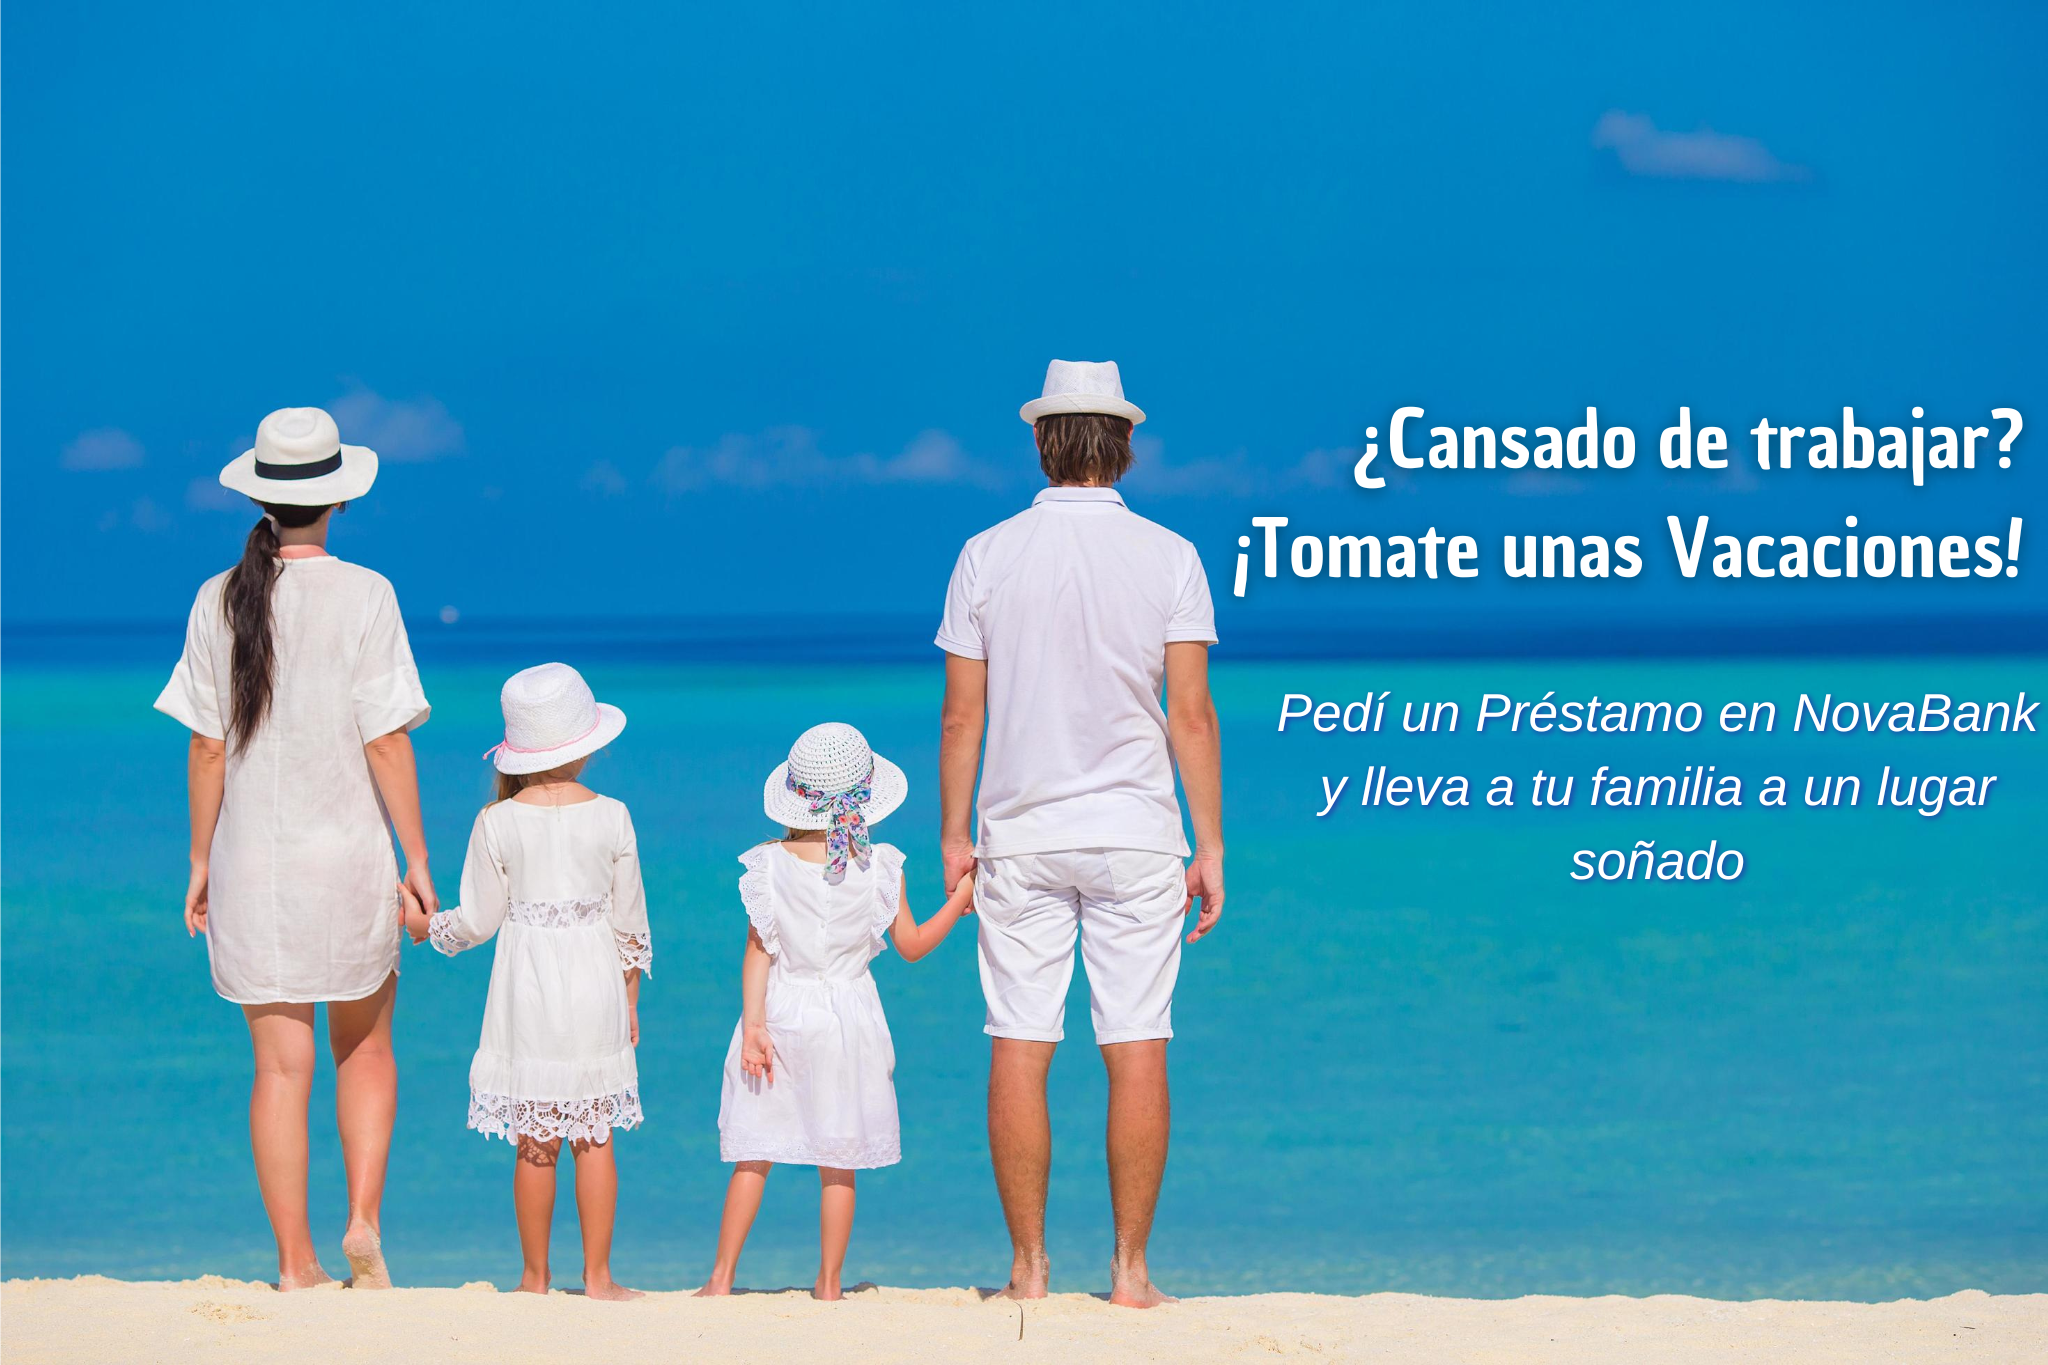
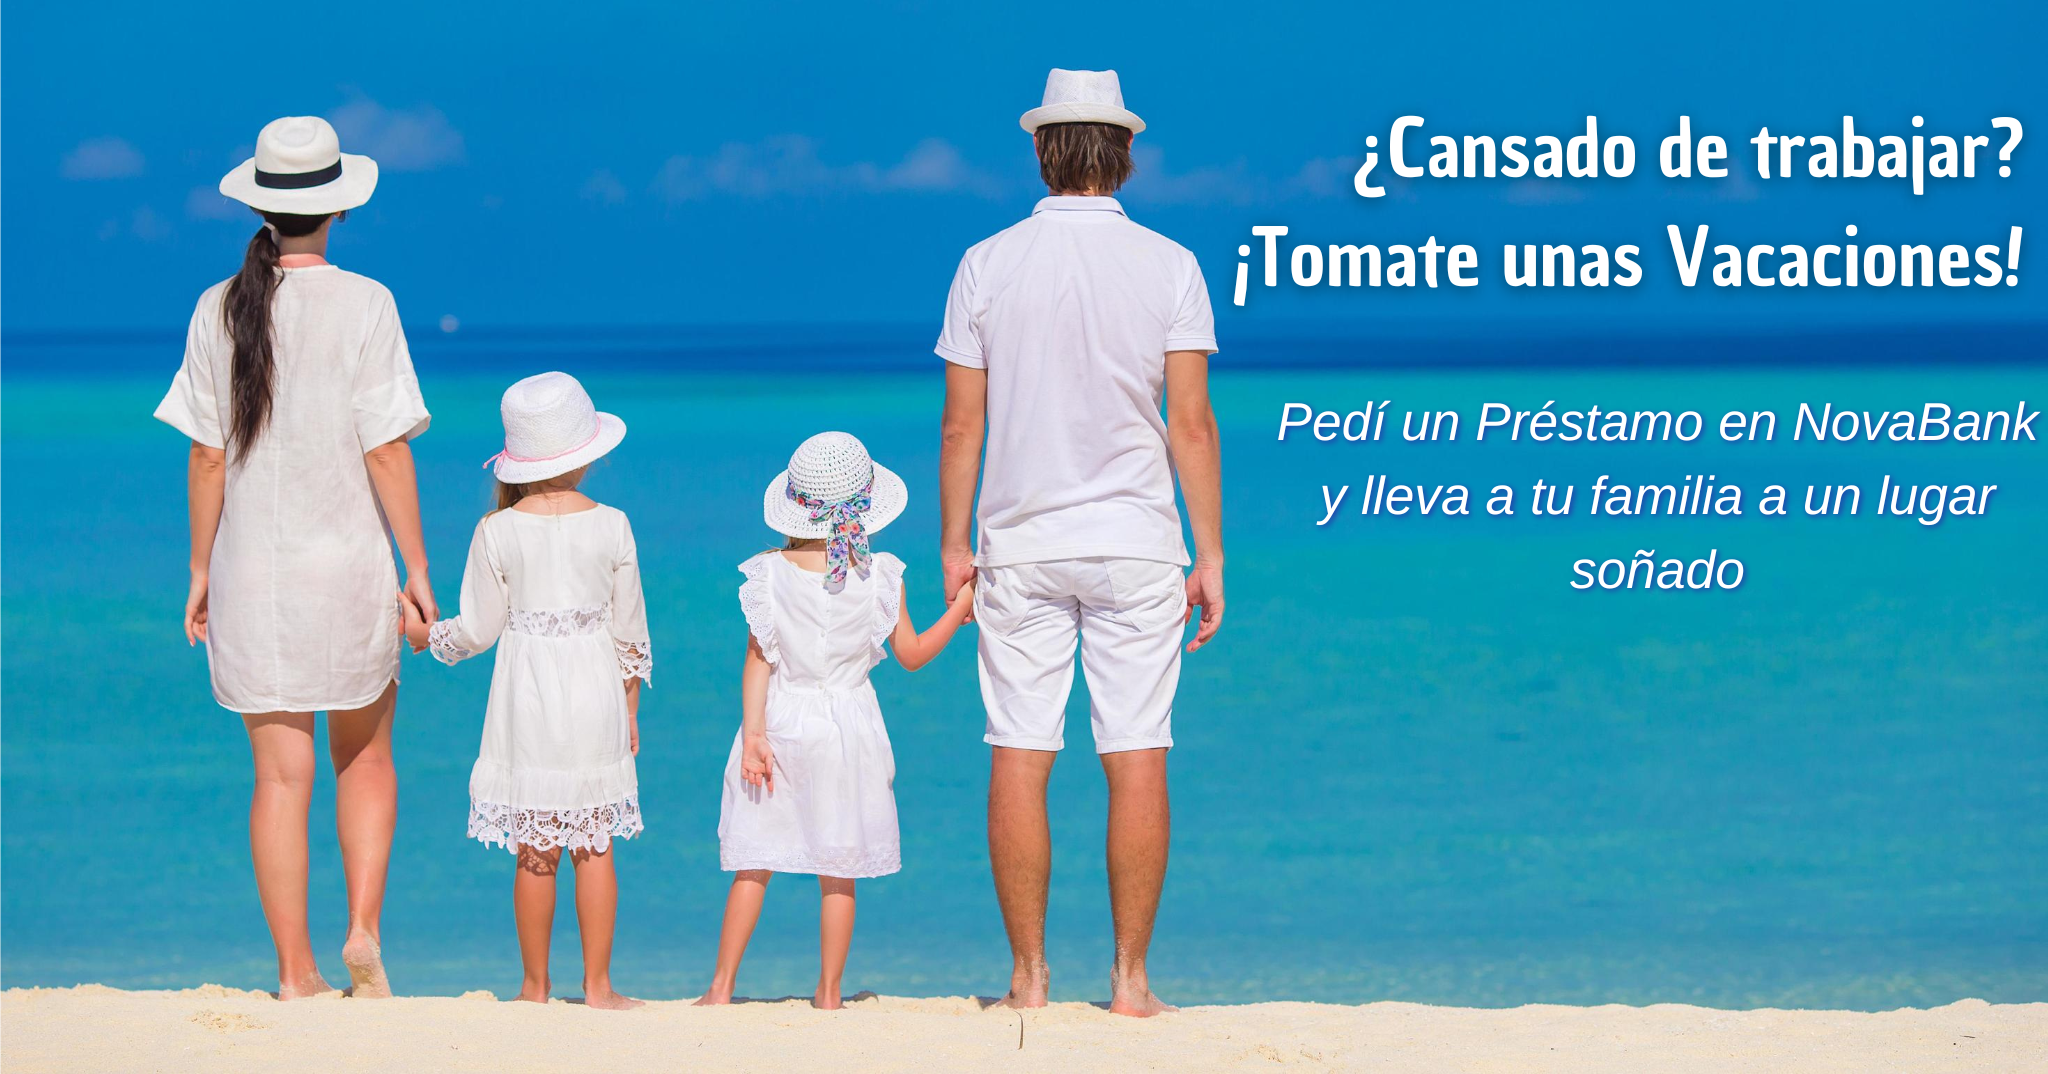
redimension CarouselImage

diff --git a/novabank/src/components/Functions/Index/CarouselImage.js b/novabank/src/components/Functions/Index/CarouselImage.js
@@ -1,4 +1,5 @@
 import React from 'react';
+import './style.css'
 import Carousel from 'react-bootstrap/Carousel';
 import image1 from './mediaAct/estudiantes.png';
 import image2 from './mediaAct/parejaMayor.png';
@@ -12,7 +13,8 @@ export const CarouselImage = () => {
     <>
       <Carousel className='p-5 ' data-bs-theme="dark">
         <Carousel.Item >
-          <img style={{height: '65vh'}}
+          <img 
+          // style={{height: '65vh'}}
             className="d-flex w-100 m-lg-auto mr-auto"
             src={image1}
             alt="First slide"
@@ -23,7 +25,8 @@ export const CarouselImage = () => {
           </Carousel.Caption> */}
         </Carousel.Item>
         <Carousel.Item>
-          <img style={{height: '65vh'}}
+          <img 
+          // style={{height: '65vh'}}
             className="d-block w-100 m-lg-auto mr-auto"
             src={image2}
             alt="First slide"
@@ -34,7 +37,8 @@ export const CarouselImage = () => {
           </Carousel.Caption> */}
         </Carousel.Item>
         <Carousel.Item>
-          <img style={{height: '65vh'}}
+          <img 
+          // style={{height: '65vh'}}
             className="d-block w-100 m-lg-auto mr-auto"
             src={image3}
             alt="First slide"
@@ -47,7 +51,8 @@ export const CarouselImage = () => {
           </Carousel.Caption> */}
         </Carousel.Item>
         <Carousel.Item>
-          <img style={{height: '65vh'}}
+          <img 
+          // style={{height: '65vh'}}
             className="d-block w-100 m-lg-auto mr-auto"
             src={image4}
             alt="First slide"

diff --git a/novabank/src/components/Functions/Index/style.css b/novabank/src/components/Functions/Index/style.css
@@ -1,0 +1,8 @@
+.CarouselItem-img{
+    /* height: '65vh'; */
+}
+.d-block w-100 m-lg-auto mr-auto{
+    
+     width: max-content 60%; 
+     height: max-content 30%;
+}
